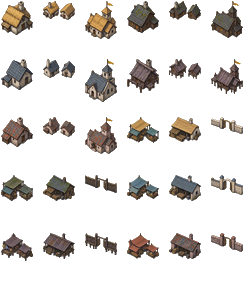
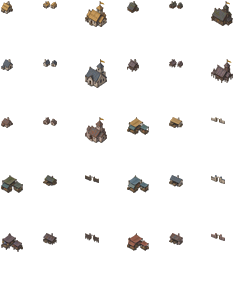
Match settlement asset density and restore broad road bends

diff --git a/images/dark-fantasy/map-generation-prototype/roads.js b/images/dark-fantasy/map-generation-prototype/roads.js
@@ -1,3 +1,38 @@
+// Broad route bends are planned over complete spans, never per-pixel jitter.
+export function windRoad(path, { scale = 1, clear, wet, inTown }) {
+  if (path.length < 3) return path;
+  const distance = [0];
+  for (let i=1;i<path.length;i++) distance.push(distance[i-1]+Math.hypot(path[i].x-path[i-1].x,path[i].y-path[i-1].y));
+  const total=distance.at(-1), result=path.map(p=>({...p}));
+  const protectedLength=16*scale;
+  // Alternate broad bows, with zero displacement AND slope at each span end.
+  // Validate the entire bow at once so obstacles cannot produce jagged fragments.
+  const spanLength=65*scale;
+  const spans=Math.max(1,Math.round((total-2*protectedLength)/spanLength));
+  if(total<protectedLength*3) return result;
+  for(let span=0;span<spans;span++) {
+    const start=protectedLength+(total-2*protectedLength)*span/spans;
+    const end=protectedLength+(total-2*protectedLength)*(span+1)/spans;
+    const indices=distance.map((d,i)=>d>=start&&d<=end?i:-1).filter(i=>i>0&&i<path.length-1);
+    if(indices.length<3||indices.some(i=>wet(path[i]))) continue;
+    const a=path[indices[0]],b=path[indices.at(-1)],length=Math.hypot(b.x-a.x,b.y-a.y)||1;
+    const sign=((span+Math.floor(path[0].x/17+path[0].y/13))%2)?1:-1;
+    for(const amount of [1,.65,.35]) {
+      const candidate=result.map(p=>({...p}));
+      for(const i of indices) {
+        const t=(distance[i]-start)/(end-start);
+        const offset=sign*Math.sin(Math.PI*t)**2*Math.min(10*scale,(end-start)*.16)*amount;
+        candidate[i]={x:path[i].x-(b.y-a.y)/length*offset,y:path[i].y+(b.x-a.x)/length*offset};
+      }
+      const first=indices[0],last=indices.at(-1);
+      let valid=true;
+      for(let i=first;i<=last+1;i++) if(wet(candidate[i])||inTown(candidate[i])||!clear(candidate[i-1],candidate[i])) {valid=false;break;}
+      if(valid){for(const i of indices) result[i]=candidate[i];break;}
+    }
+  }
+  return result;
+}
+
 // Disposable presentation routes between sample sites. No gameplay connections.
 // Search the already-baked land lattice; the generator and its RNG stay untouched.
 export function routeSampleRoads(sites, { width, height, regionIds, land, waterIndices, materialAt, bounds, scale = 1, exclusions = [] }) {
@@ -83,7 +118,7 @@ export function routeSampleRoads(sites, { width, height, regionIds, land, waterI
     const wet = p => waterIndices[Math.round(p.y) * width + Math.round(p.x)] >= 16 && waterIndices[Math.round(p.y) * width + Math.round(p.x)] <= 23;
     const clear = (a, b) => {
       const count = Math.max(1, Math.ceil(Math.hypot(b.x - a.x, b.y - a.y)));
-      for (let n = 0; n <= count; n++) if (!dry(Math.round(a.x + (b.x - a.x) * n / count), Math.round(a.y + (b.y - a.y) * n / count))) return false;
+      for (let n = 0; n <= count; n++) if (inTown({x:a.x + (b.x-a.x)*n/count,y:a.y+(b.y-a.y)*n/count}) || !dry(Math.round(a.x + (b.x - a.x) * n / count), Math.round(a.y + (b.y - a.y) * n / count))) return false;
       return true;
     };
     let shaped = path.map(p => ({ ...p }));
@@ -99,8 +134,7 @@ export function routeSampleRoads(sites, { width, height, regionIds, land, waterI
       }
       shaped = next;
     }
-    // Do not add a second perpendicular wave after pathfinding. That displaced
-    // adjacent samples independently and made the approach kink at destinations.
+    shaped = windRoad(shaped, {scale,clear,wet,inTown});
     return shaped.map((p,i) => i === 0 || i === shaped.length-1 ? p : ({ x: Math.round(p.x), y: Math.round(p.y) }));
   });
 }

diff --git a/images/dark-fantasy/map-generation-prototype/index.html b/images/dark-fantasy/map-generation-prototype/index.html
@@ -16,6 +16,6 @@
     <p class="note">All map graphics and controls are in the Pixi window. Fullscreen keeps the game’s fixed landscape format. Atlas uses new map-scale landmarks with overview, regional and close detail. Zoom smoothly to see them change; Detail can force each level. Compare Smooth zoom and Nearest pixels. Sites cycles new map art, old game assets, sketch markers and off. Water and fog animation are a later study. Tap any region to inspect it.</p>
     <details><summary>Prototype state &amp; assumptions</summary><pre id="state"></pre></details>
   </main>
-  <script type="module" src="images/dark-fantasy/map-generation-prototype/study.js?v=settlement-entrances-2"></script>
+  <script type="module" src="images/dark-fantasy/map-generation-prototype/study.js?v=settlement-density-road-bends-1"></script>
 </body>
 </html>

diff --git a/images/dark-fantasy/map-generation-prototype/study.js b/images/dark-fantasy/map-generation-prototype/study.js
@@ -684,7 +684,7 @@ function updateZoomPresentation() {
     node.renderable = Math.max(x, x2) * pose.zoom + pose.x >= viewRect.x && Math.min(x, x2) * pose.zoom + pose.x <= viewRect.x + viewRect.width
       && Math.max(y, y2) * pose.zoom + pose.y >= viewRect.y && Math.min(y, y2) * pose.zoom + pose.y <= viewRect.y + viewRect.height;
     if (node.renderable && node.visible) visibleMeshes++;
-    node.sampleZoom(physicalScale, state.smoothZoom, node.terrainBuilding ? 0 : node.parent === terrainLayer ? terrainLodFloor : 0);
+    node.sampleZoom(physicalScale, state.smoothZoom, node.parent === terrainLayer ? terrainLodFloor : 0);
   }
   // Important connections retain a small readable stroke at overview scale.
   overviewInk?.clear();

diff --git a/scripts/import-map-terrain.py b/scripts/import-map-terrain.py
@@ -241,9 +241,14 @@ def import_buildings():
             cropped = source.crop((cell['left'], cell['top'], cell['right'], cell['bottom']))
             ys, xs = np.nonzero(np.array(cropped)[..., 3] >= 110)
             cropped = cropped.crop((int(xs.min()), int(ys.min()), int(xs.max()) + 1, int(ys.max()) + 1))
-            width = 32
+            role = roles[n % 3]
+            width = {'house': 12, 'pair': 14, 'hall': 22, 'market': 22, 'workshop': 14, 'gate': 14}[role]
             image = np.array(cropped.resize((width, round(width * cropped.height / cropped.width)), Image.Resampling.LANCZOS))
-            image[..., 3] = np.where(image[..., 3] < 65, 0, image[..., 3])
+            # Resolve miniature roof detail before packing. Lift ink-black outlines
+            # and compress highlights without replacing the painted material hues.
+            rgb = image[..., :3].astype(np.float32)
+            image[..., :3] = np.clip(rgb * .86 + 14, 0, 255).astype(np.uint8)
+            image[..., 3] = np.where(image[..., 3] < 28, 0, image[..., 3])
             images.append(image)
             records.append({'biome': BIOMES[n // 3], 'role': roles[n % 3], 'cutRuns': cell['cutRuns']})
     frames = packed(images, records, 'settlement-buildings-v1.webp', 6, (40, 56))

diff --git a/scripts/check-map-terrain.py b/scripts/check-map-terrain.py
@@ -54,7 +54,8 @@ settlements = json.loads((folder / 'settlement-buildings-v1.json').read_text())[
 assert len(settlements) == 30 and all(not f['cutRuns'] for f in settlements)
 for biome in biomes:
     assert {f['role'] for f in settlements if f['biome'] == biome} == {'house', 'pair', 'hall', 'market', 'workshop', 'gate'}
-assert all(f['rect'][2] <= 128 and f['rect'][3] <= 128 for f in settlements)
+expected_widths = {'house': 12, 'pair': 14, 'hall': 22, 'market': 22, 'workshop': 14, 'gate': 14}
+assert all(f['rect'][2] == expected_widths[f['role']] for f in settlements), 'Building detail must follow world footprint'
 
 total = sum(p.stat().st_size for p in folder.iterdir() if p.suffix in ['.webp', '.json'])
 assert total < 3 * 1048576, 'Imported art exceeded the prototype runtime budget'

diff --git a/images/dark-fantasy/map-generation-prototype/README.md b/images/dark-fantasy/map-generation-prototype/README.md
@@ -8,7 +8,10 @@ than cut through buildings. The accepted 75% setting remains the default footpri
 Individual houses, halls, workshops and market buildings share terrain depth order.
 Local lanes join a single planned entrance; mainland routes target that entrance
 and avoid the civic centre. The route search retains terrain constraints but no
-longer adds independent sine displacement to its samples. Island villages remain
+longer adds independent sine displacement to its samples. Broad bowed spans
+restore winding character; the first/last 16 texels (scaled with map detail) remain
+fixed. Whole bows are reduced or rejected if they meet water, town interiors or
+impassable ground, rather than accepting scattered displaced pixels. Island villages remain
 independent. Compact building groups surround an offset court and crescent lane,
 with a larger hall/market, gate and broken biome-material enclosure. Ground-level
 contact shadows anchor the buildings. Layouts have 13-19 pieces rather than two
@@ -20,7 +23,13 @@ Gold/teal overview markers retain identity when buildings become too small to re
 
 Thirty generated building pieces (six per biome) replace the whole-town/outskirts
 runtime atlas. Masters and exact prompts are retained under `assets/masters/`;
-`settlement-buildings-v1.webp` imports each building at 32 pixels wide.
+`settlement-buildings-v1.webp` imports houses at 12px, paired houses/workshops/gates
+at 14px and civic buildings at 22px. These sizes follow their world footprints,
+roughly one source pixel per world unit at 75%, instead of giving tiny houses
+32 pixels of miniature detail. Import compresses value contrast and preserves
+soft alpha edges; original source masters stay untouched. Buildings now use the
+same zoom detail floor as terrain. This is import-time preparation, not a scene
+blur or a biome tint; perspective/light-direction changes still require source art.
 The prior yellow coastal cliff scatter remains removed. Lairs retain their earlier
 art; this pass changes settlements and neutral markets only.
 

diff --git a/images/dark-fantasy/map-generation-prototype/assets/README.md b/images/dark-fantasy/map-generation-prototype/assets/README.md
@@ -2,7 +2,8 @@
 
 Two built-in imagegen sheets provide 30 isolated building pieces: house, paired
 houses, hall, market, workshop and gate for each of five biomes. Exact prompts:
-`masters/settlement-buildings-prompts.json`. Import uses 32px-wide cutouts with
+`masters/settlement-buildings-prompts.json`. Import uses 12-22px-wide cutouts matched to building footprints, compressed
+value contrast and
 transparent margins. Site ground and streets come from the procedural map.
 Older whole-town masters remain reference material; their runtime atlas is removed.
 
